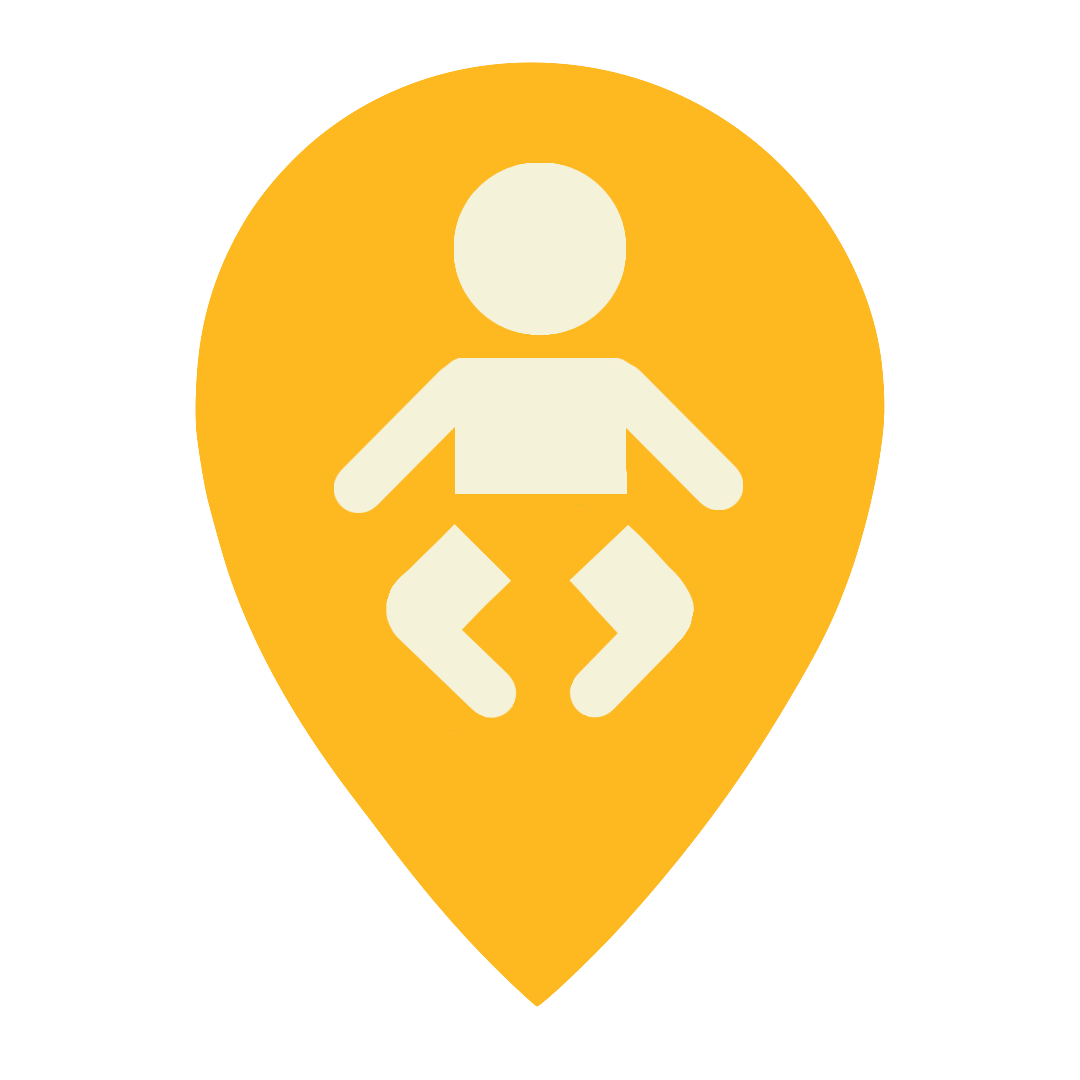
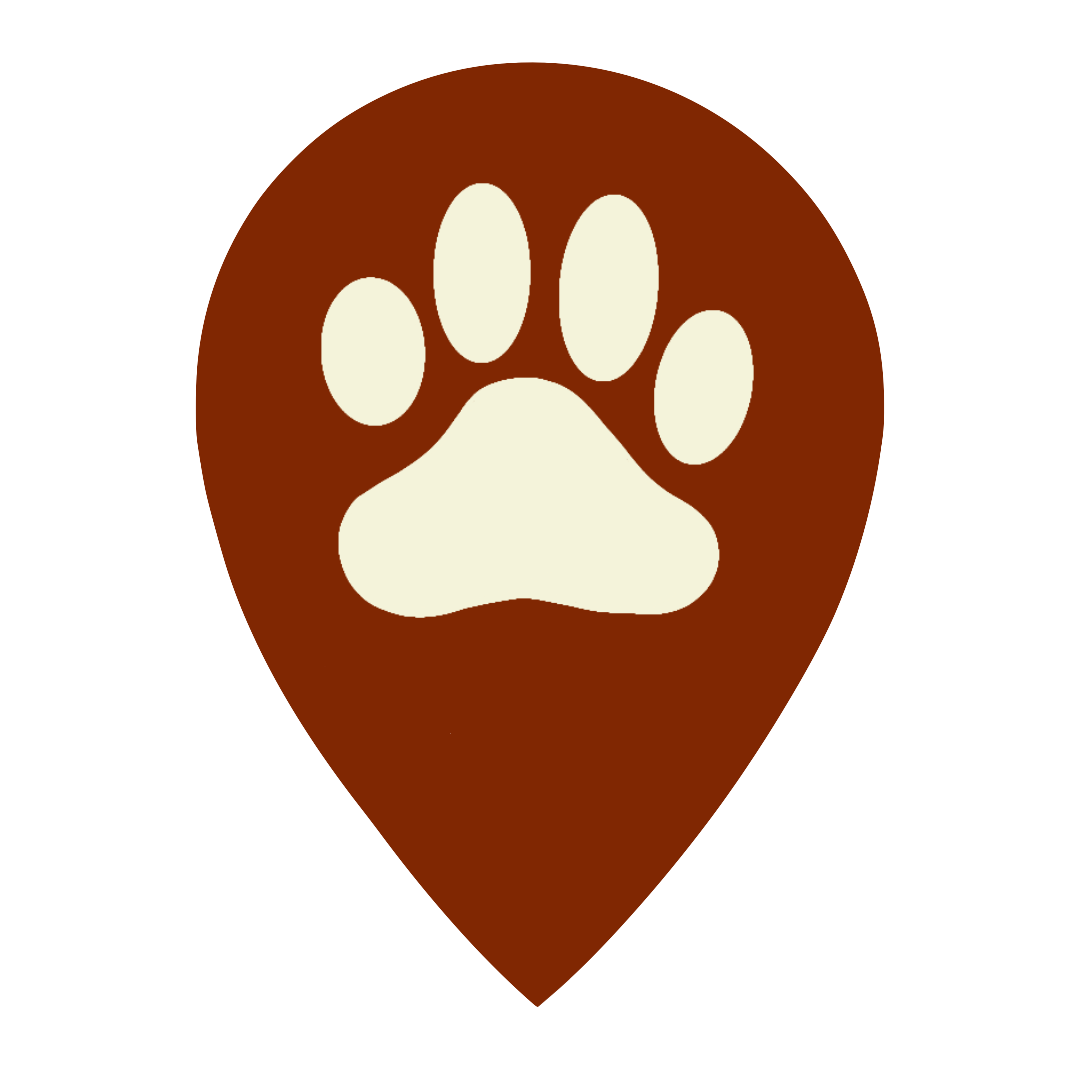
renamed markers

diff --git a/app/javascript/packs/application.js b/app/javascript/packs/application.js
@@ -34,12 +34,12 @@ import { initMapbox } from '../plugins/init_mapbox';
 // Internal imports, e.g:
 // import { initSelect2 } from '../components/init_select2';
 import { showEnrollForm } from '../components/enroll_form';
-import { ongoingFormCondition } from '../components/event_new';
+// import { ongoingFormCondition } from '../components/event_new';
 
 document.addEventListener('turbolinks:load', () => {
   // Call your functions here, e.g:
   // initSelect2();
   showEnrollForm();
   initMapbox();
-  ongoingFormCondition();
+  // ongoingFormCondition();
 });

diff --git a/app/controllers/events_controller.rb b/app/controllers/events_controller.rb
@@ -25,15 +25,15 @@ class EventsController < ApplicationController
       @events = Event.all
     end
     marker_image = {
-      "Animals/Wildlife" => "0.png",
-      "Children/Youth" => "1.png",
-      "Disasters" => "2.png",
-      "Education" => "3.png",
-      "Environment/Agriculture" => "4.png",
-      "Health" => "5.png",
-      "Women" => "6.png",
-      "Seniors/Disabilities" => "7.png",
-      "Other" => "8.png"
+      "Animals/Wildlife" => "1.png",
+      "Children/Youth" => "2.png",
+      "Disasters" => "3.png",
+      "Education" => "4.png",
+      "Environment/Agriculture" => "5.png",
+      "Health" => "6.png",
+      "Women" => "7.png",
+      "Seniors/Disabilities" => "8.png",
+      "Other" => "9.png"
     }
     @markers = {}
     @markers[:user] = { lat: current_user.latitude, lng: current_user.longitude, image_url: cl_image_path(current_user.photos.first.key) }
@@ -42,7 +42,7 @@ class EventsController < ApplicationController
         lat: event.latitude,
         lng: event.longitude,
         infoWindow: render_to_string(partial: "info_window", locals: { event: event }),
-        image_url: helpers.asset_url(marker_image[event.tag_list.first] || "8.png"),
+        image_url: helpers.asset_url(marker_image[event.tag_list.first] || "9.png"),
         event_id: event.id
       }
     end
